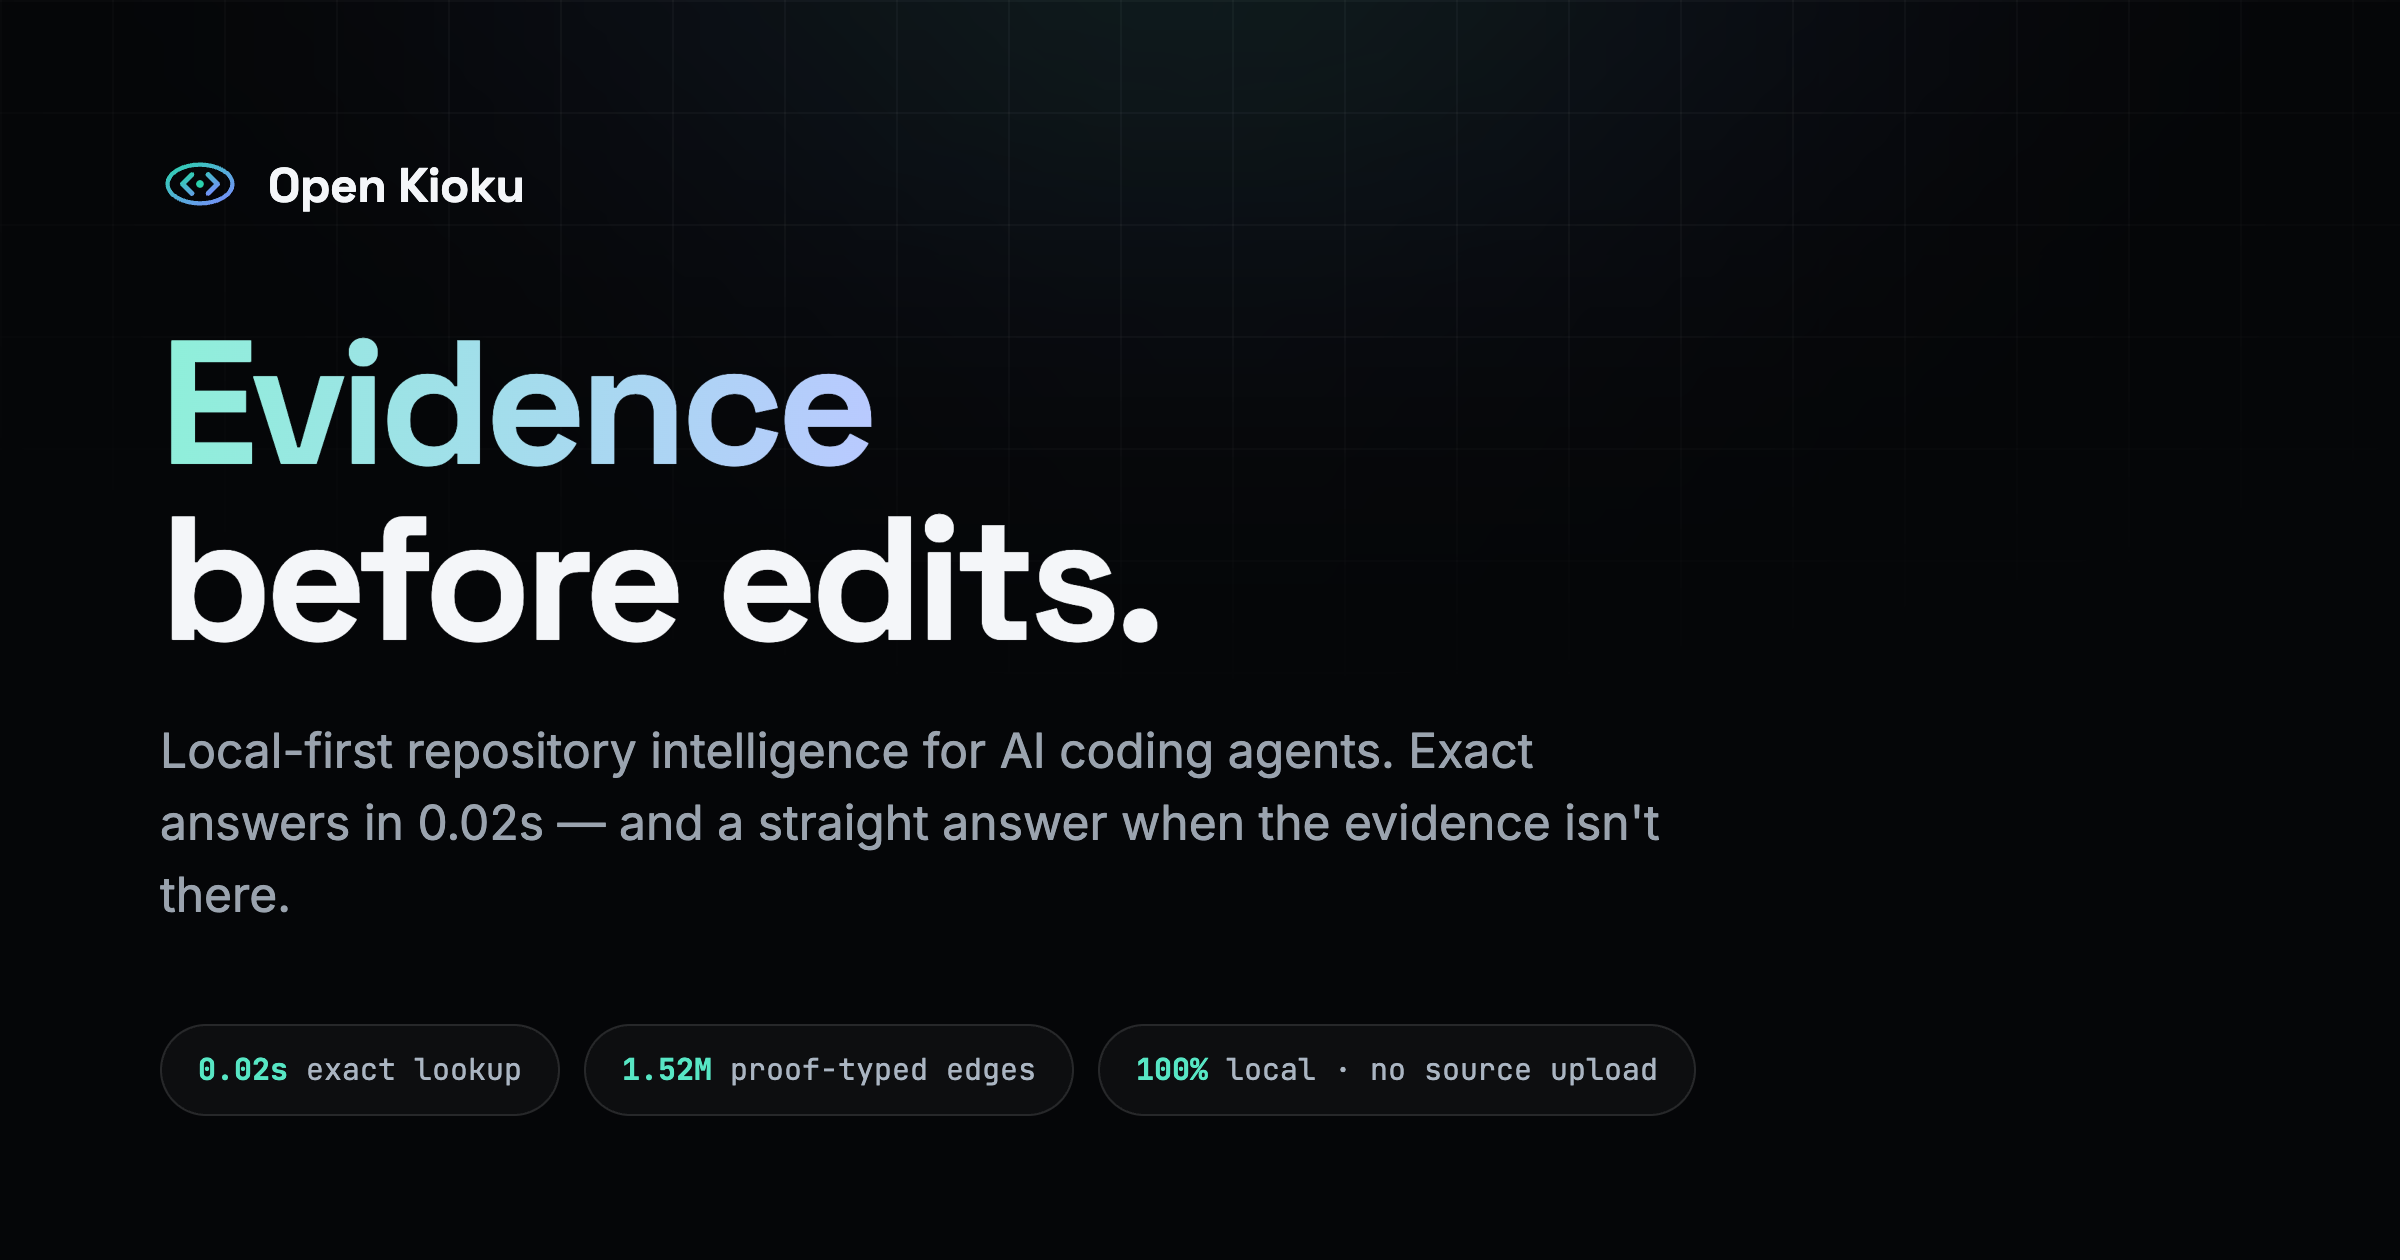
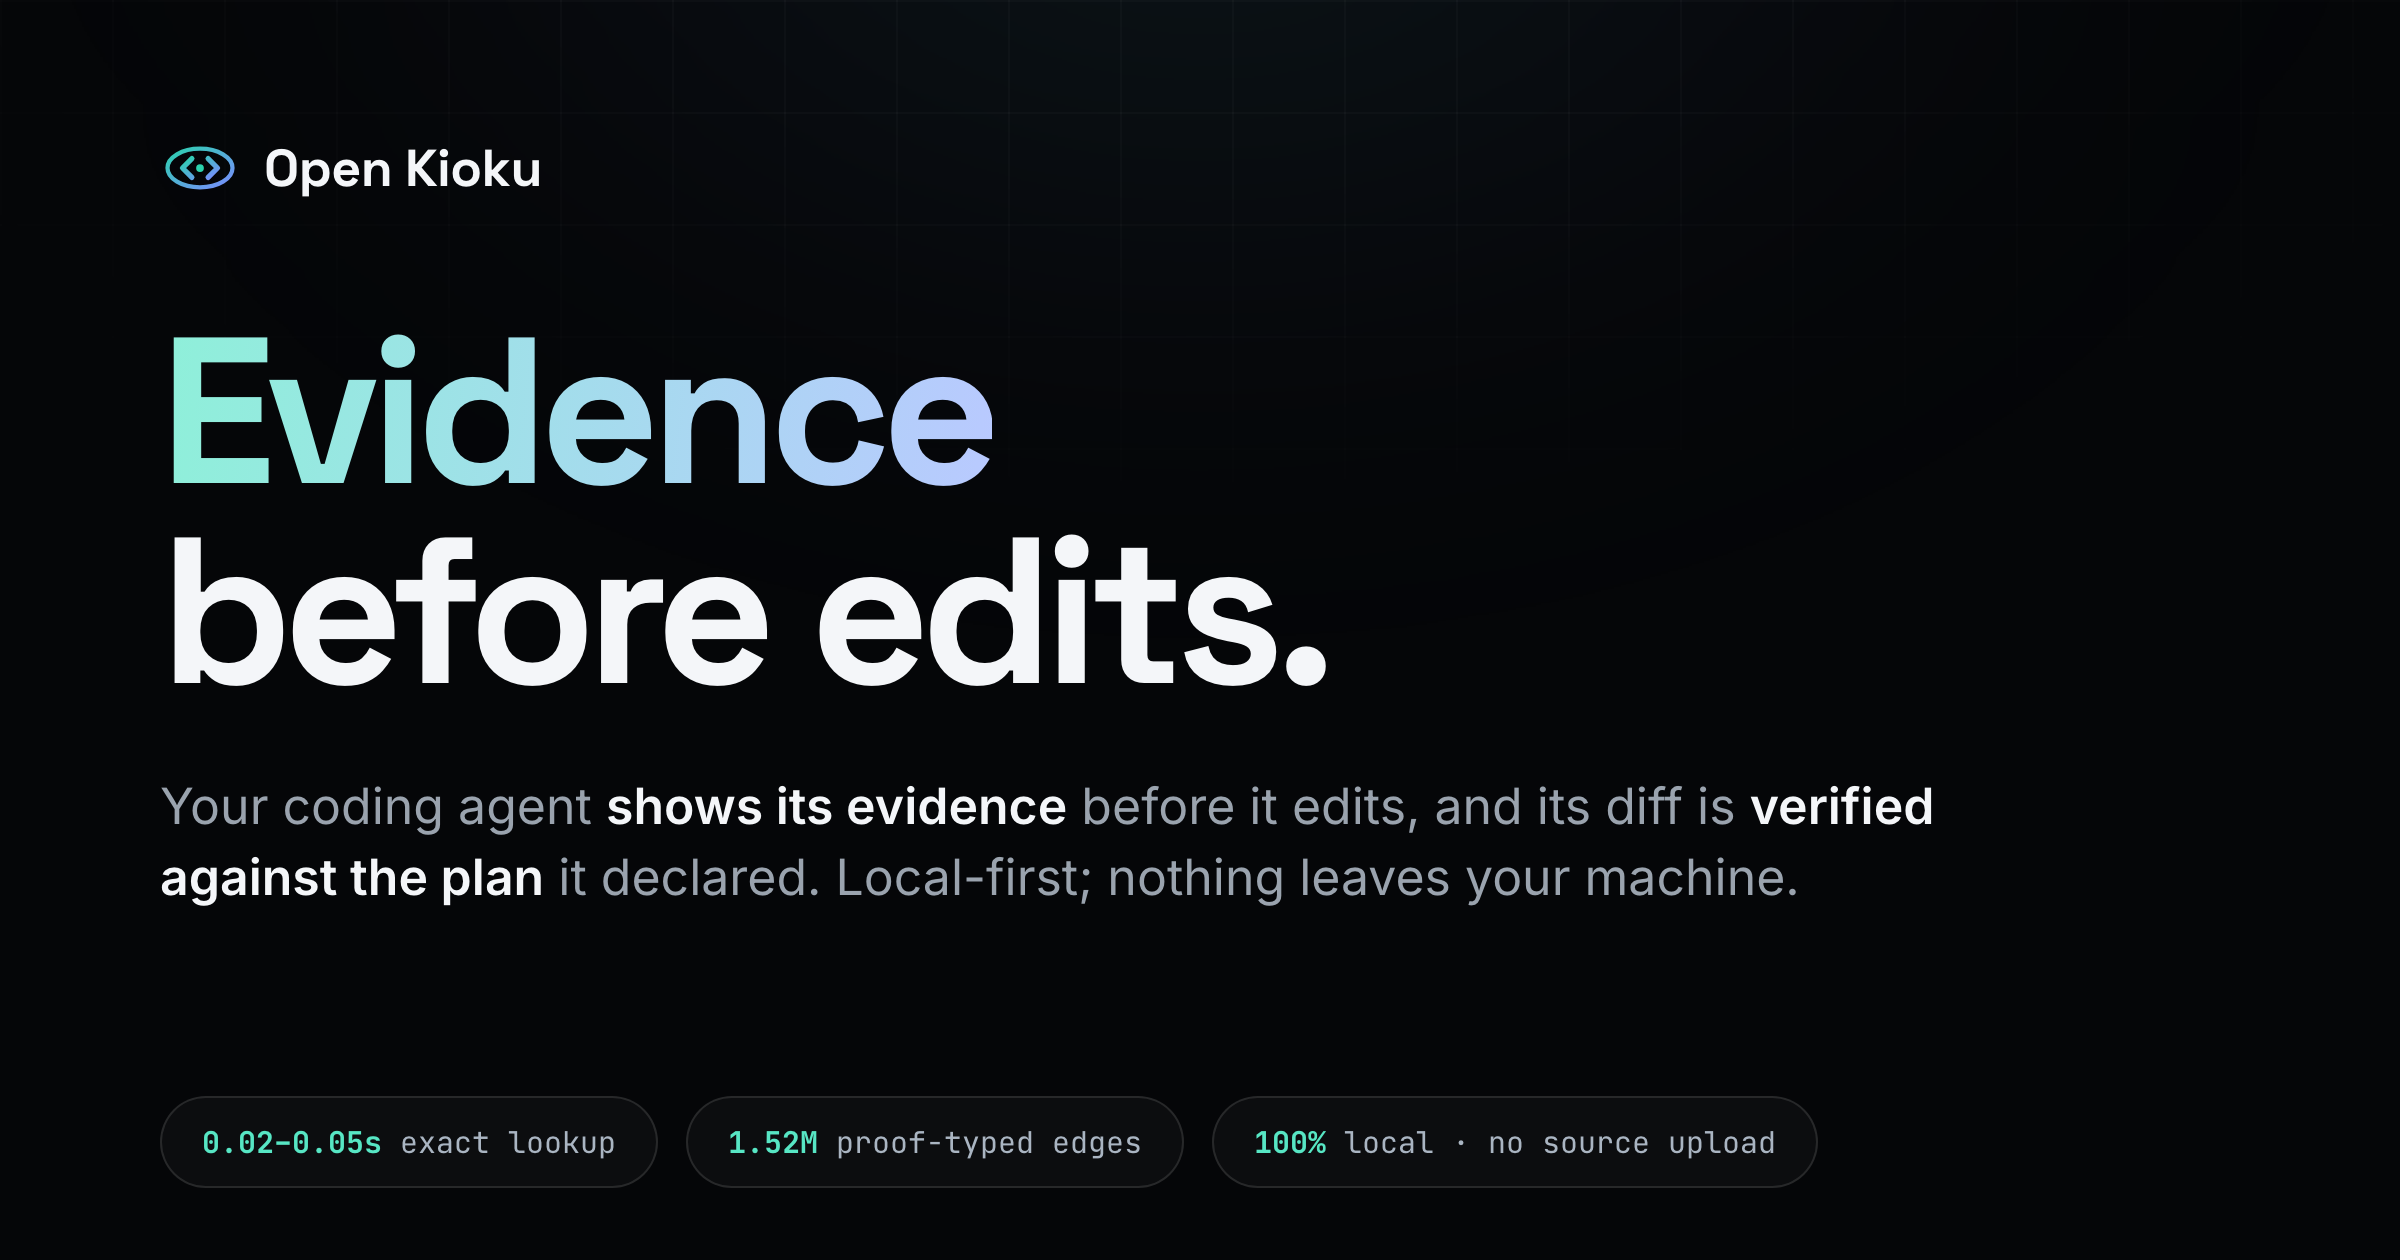
docs(site): regenerate og-image with the 0.02–0.05s lookup range
The OG card still read "0.02s exact lookup" after the site copy moved to
the 0.02–0.05s range from demo/proof/large-java-2026-08-31-main.json.
Rendered from a new template, assets/og-image.html (site design tokens,
1200x630 at device scale 2 = 2400x1260, headless Chrome; render command
in the file header), so the image is reproducible instead of binary-only.
The lead now carries the same idea as the README and site hero.

Claude-Session: https://claude.ai/code/session_018oLKincidTgA9hrfKWs61L

diff --git a/assets/og-image.html b/assets/og-image.html
@@ -1,0 +1,39 @@
+<!doctype html>
+<!--
+  Source for demo/og-image.png (1200x630 at device scale 2 = 2400x1260).
+  Render with headless Chrome from the repository root:
+
+    "/Applications/Google Chrome.app/Contents/MacOS/Google Chrome" --headless=new --disable-gpu \
+      --hide-scrollbars --force-device-scale-factor=2 --window-size=1200,630 \
+      --screenshot=demo/og-image.png "file://$PWD/assets/og-image.html"
+
+  Numbers must match demo/proof/large-java-2026-08-31-main.json and the site copy.
+-->
+<html lang="en"><head><meta charset="utf-8">
+<link rel="preconnect" href="https://fonts.googleapis.com"><link rel="preconnect" href="https://fonts.gstatic.com" crossorigin>
+<link rel="stylesheet" href="https://fonts.googleapis.com/css2?family=Inter:wght@400;500;600&family=JetBrains+Mono:wght@400;700&family=Space+Grotesk:wght@700&display=swap">
+<style>
+:root{--bg:#050608;--panel:#0b0e13;--text:#f4f6f9;--muted:#9aa3ae;--soft:#646d78;--line:rgba(255,255,255,.06);--line2:rgba(255,255,255,.11);--mint:#57e6c4;
+--mono:"JetBrains Mono",Menlo,monospace;--sans:Inter,-apple-system,"Segoe UI",sans-serif;--display:"Space Grotesk",Inter,sans-serif}
+html,body{margin:0;width:1200px;height:630px;overflow:hidden;background:var(--bg);color:var(--text);font-family:var(--sans);-webkit-font-smoothing:antialiased}
+.grid{position:absolute;inset:0;background-image:linear-gradient(rgba(255,255,255,.022) 1px,transparent 1px),linear-gradient(90deg,rgba(255,255,255,.022) 1px,transparent 1px);background-size:56px 56px;mask-image:radial-gradient(ellipse 90% 70% at 50% -8%,black 30%,transparent 78%);-webkit-mask-image:radial-gradient(ellipse 90% 70% at 50% -8%,black 30%,transparent 78%)}
+.glow{position:absolute;left:50%;top:-360px;transform:translateX(-50%);width:1000px;height:560px;border-radius:50%;filter:blur(110px);background:radial-gradient(closest-side,rgba(87,230,196,.10),rgba(122,167,255,.05),transparent)}
+.wrap{position:absolute;left:80px;right:80px;top:64px}
+.brand{display:flex;align-items:center;gap:12px;font-family:var(--display);font-weight:700;font-size:26px;letter-spacing:-.01em}
+.brand svg{width:40px;height:40px}
+h1{font-family:var(--display);font-weight:700;font-size:104px;line-height:.96;letter-spacing:-.045em;margin:52px 0 30px}
+.grad{background:linear-gradient(95deg,#8ef0d9 0%,#b9c9ff 100%);-webkit-background-clip:text;background-clip:text;color:transparent}
+.lead{font-size:25px;line-height:1.42;color:var(--muted);max-width:960px;margin:0;font-weight:400}
+.lead b{color:var(--text);font-weight:600}
+.chips{position:absolute;left:80px;top:548px;display:flex;gap:14px}
+.chip{border:1px solid var(--line2);background:rgba(255,255,255,.03);border-radius:999px;padding:12px 20px;font:15px var(--mono);color:#aab5c2}
+.chip b{color:var(--mint);font-weight:700}
+</style></head><body>
+<div class="grid"></div><div class="glow"></div>
+<div class="wrap">
+<div class="brand"><svg viewBox="0 0 64 64" aria-hidden="true"><defs><linearGradient id="lg" x1="0" y1="0" x2="1" y2="1"><stop stop-color="#2bd2ad"/><stop offset="1" stop-color="#7a8cff"/></linearGradient></defs><ellipse cx="32" cy="32" rx="26" ry="15.5" fill="none" stroke="url(#lg)" stroke-width="3.4"/><path d="M25.5 24.5 18 32l7.5 7.5M38.5 24.5 46 32l-7.5 7.5" fill="none" stroke="url(#lg)" stroke-width="4.2" stroke-linecap="round" stroke-linejoin="round"/><circle cx="32" cy="32" r="3.1" fill="#2bd2ad"/></svg><span>Open Kioku</span></div>
+<h1><span class="grad">Evidence</span><br>before edits.</h1>
+<p class="lead">Your coding agent <b>shows its evidence</b> before it edits, and its diff is <b>verified against the plan</b> it declared. Local-first; nothing leaves your machine.</p>
+</div>
+<div class="chips"><div class="chip"><b>0.02–0.05s</b> exact lookup</div><div class="chip"><b>1.52M</b> proof-typed edges</div><div class="chip"><b>100%</b> local · no source upload</div></div>
+</body></html>
